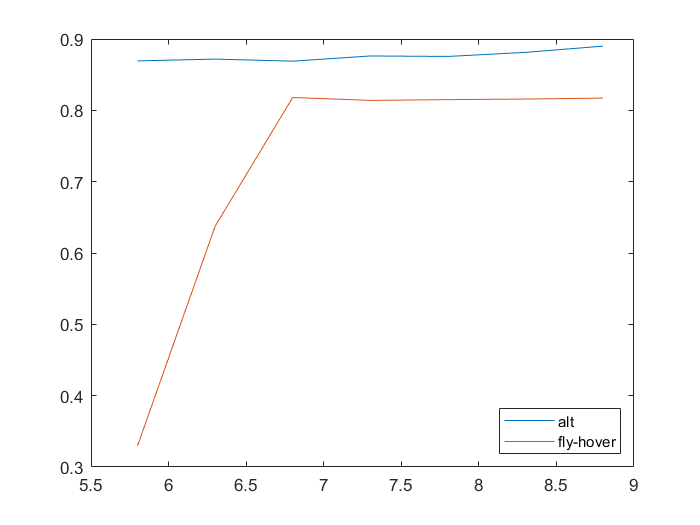
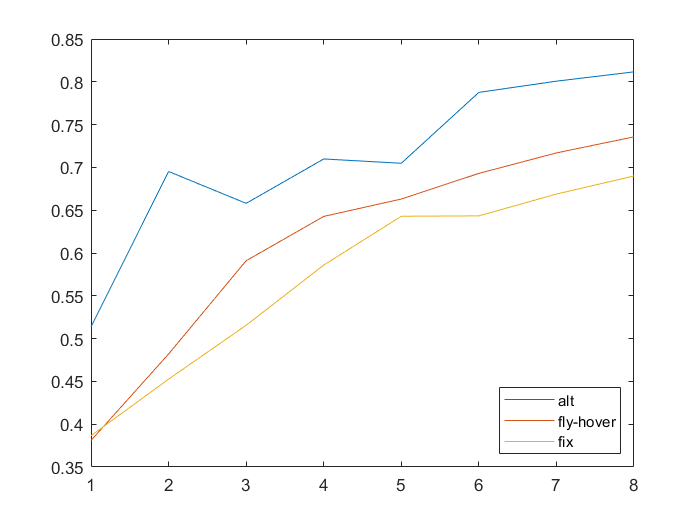
update plot in performance.m

diff --git a/temp_m/performance.m b/temp_m/performance.m
@@ -47,21 +47,22 @@ for i = 1:length(p_list)
     acc_power_plot(3, i) = acc;
 end
 
-% figure; % discriminant gain
-% grid on;
-% plot(p_list(1:7), dis_power_plot(1, 1:7)); hold on;
-% plot(p_list(1:7), dis_power_plot(2, 1:7));
-% % plot(p_list, dis_power_plot(3, :));
-% % legend('alt', 'fly-hover', 'fix');
-% legend('alt', 'fly-hover','Location','SouthEast');
-% 
-% figure; % accuracy
-% grid on;
-% plot(p_list(1:7), acc_power_plot(1, 1:7)); hold on;
-% plot(p_list(1:7), acc_power_plot(2, 1:7));
-% % plot(p_list, acc_power_plot(3, :));
-% % legend('alt', 'fly-hover', 'fix');
-% legend('alt', 'fly-hover','Location','SouthEast');
+%%
+end_idx = 8;
+
+figure; % discriminant gain
+grid on;
+plot(p_list(1:end_idx), dis_power_plot(1, 1:end_idx)); hold on;
+plot(p_list(1:end_idx), dis_power_plot(2, 1:end_idx));
+plot(p_list(1:end_idx), dis_power_plot(3, 1:end_idx));
+legend('alt', 'fly-hover', 'fix', 'Location', 'SouthEast');
+
+figure; % accuracy
+grid on;
+plot(p_list(1:end_idx), acc_power_plot(1, 1:end_idx)); hold on;
+plot(p_list(1:end_idx), acc_power_plot(2, 1:end_idx));
+plot(p_list(1:end_idx), acc_power_plot(3, 1:end_idx));
+legend('alt', 'fly-hover', 'fix', 'Location', 'SouthEast');
 
 %%
 % % plot results
